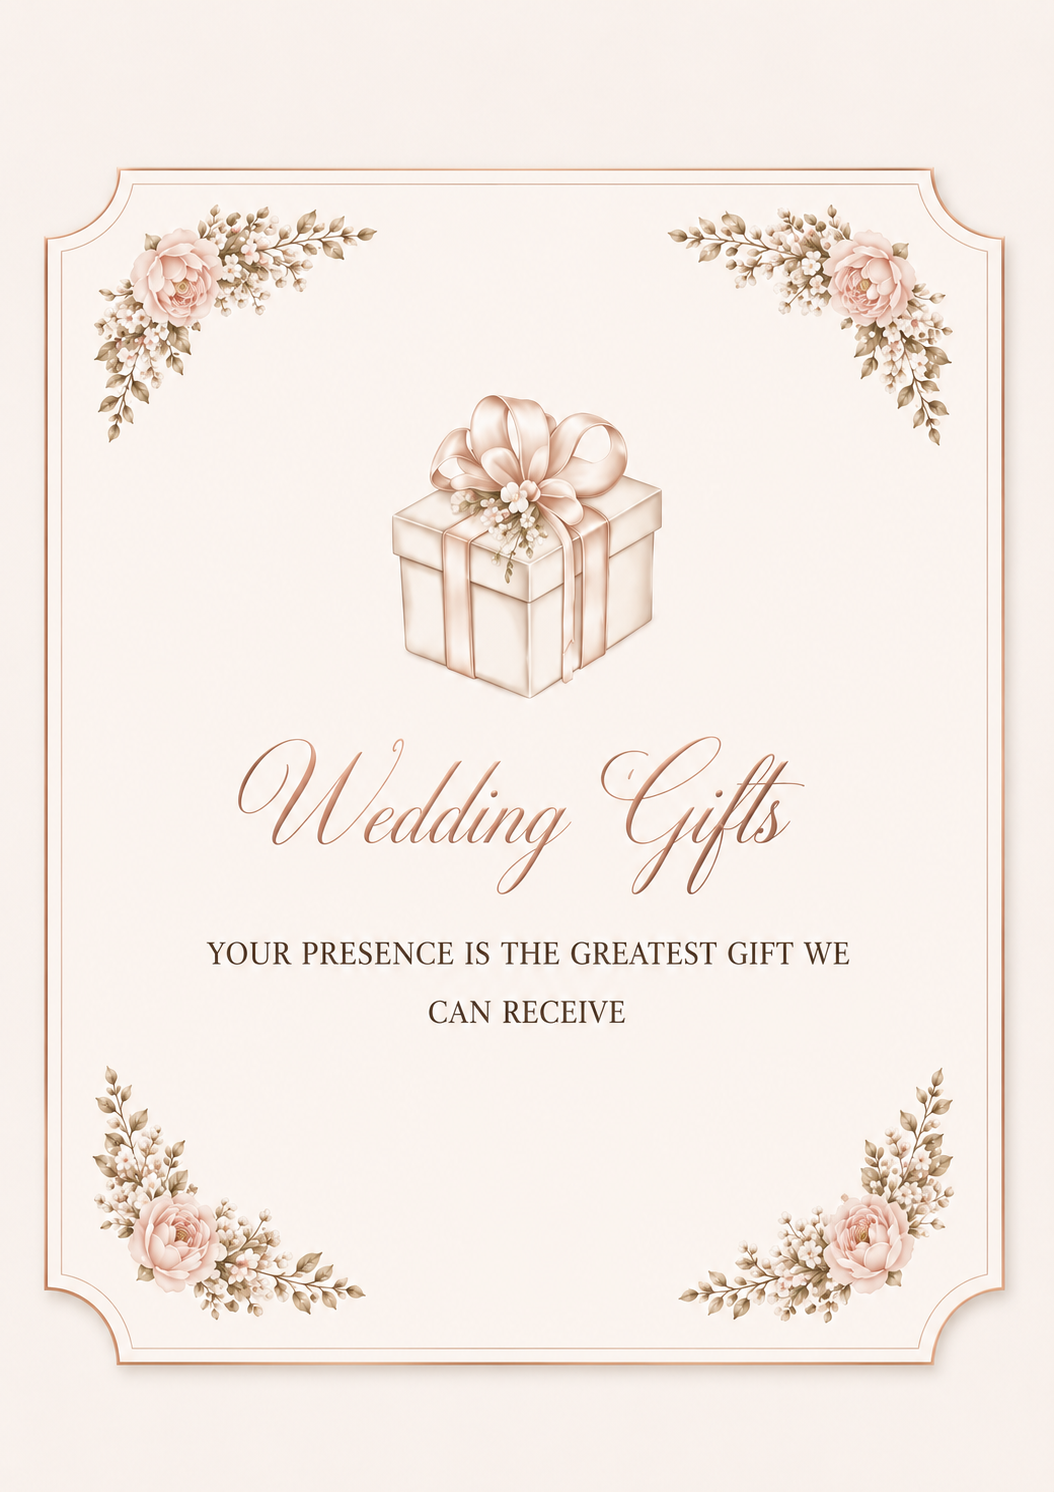
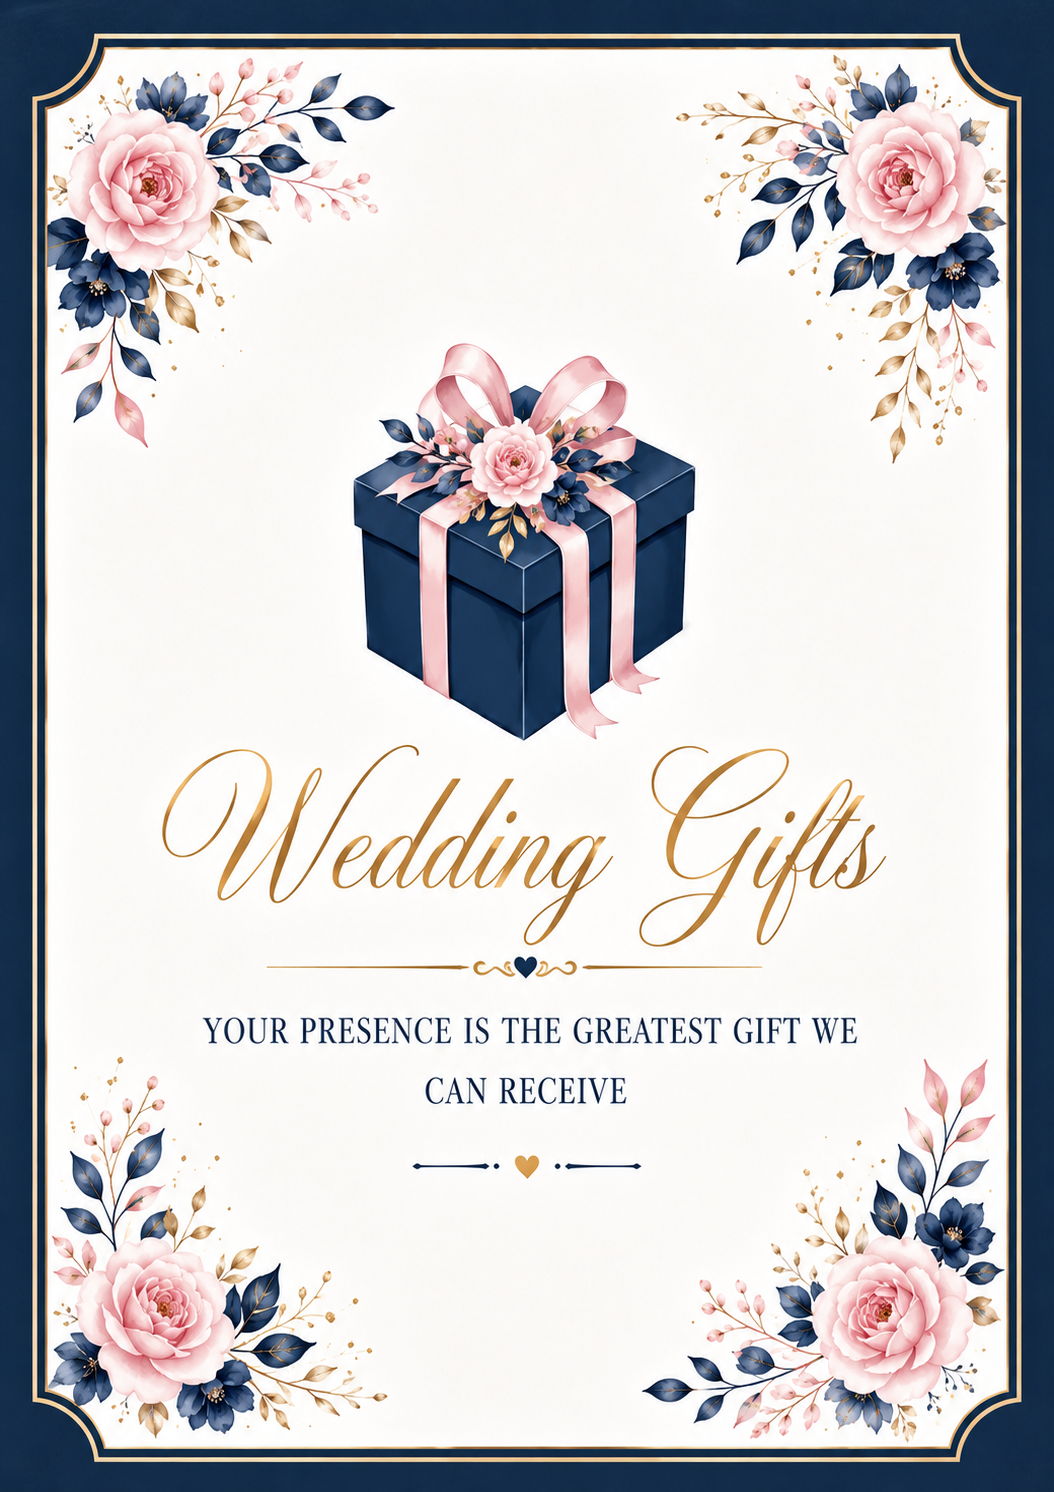
update

diff --git a/script.js b/script.js
@@ -93,6 +93,17 @@ const timelineDots = document.querySelectorAll('.timeline-dot');
 const timelineRows = document.querySelectorAll('.timeline-row');
 
 const wasReached = new Array(timelineDots.length).fill(false);
+let dotOffsets = [];
+
+function measureDotOffsets() {
+  if (!timelineTrack) return;
+  const trackRect = timelineTrack.getBoundingClientRect();
+  const trackTop = trackRect.top + window.scrollY;
+  dotOffsets = Array.from(timelineDots).map((dot) => {
+    const dotRect = dot.getBoundingClientRect();
+    return dotRect.top + window.scrollY + dotRect.height / 2 - trackTop;
+  });
+}
 
 function updateTimelineFill() {
   if (!timelineTrack || !timelineFill) return;
@@ -110,9 +121,7 @@ function updateTimelineFill() {
   const reachedStates = [];
 
   timelineDots.forEach((dot, i) => {
-    const dotRect = dot.getBoundingClientRect();
-    const dotOffset = dotRect.top + dotRect.height / 2 - rect.top;
-    const reached = fillPx >= dotOffset;
+    const reached = fillPx >= (dotOffsets[i] ?? 0);
     reachedStates.push(reached);
     if (reached) lastReachedIndex = i;
 
@@ -139,7 +148,9 @@ function updateTimelineFill() {
   });
 }
 
-function onScroll() {
+let scrollTicking = false;
+
+function handleScrollWork() {
   if (scrollProgress) {
     const scrollTop = window.scrollY;
     const docHeight = document.documentElement.scrollHeight - window.innerHeight;
@@ -148,10 +159,32 @@ function onScroll() {
   }
 
   updateTimelineFill();
+  scrollTicking = false;
+}
+
+function onScroll() {
+  if (scrollTicking) return;
+  scrollTicking = true;
+  requestAnimationFrame(handleScrollWork);
 }
 
 window.addEventListener('scroll', onScroll, { passive: true });
-onScroll();
+
+let resizeTimer;
+window.addEventListener(
+  'resize',
+  () => {
+    clearTimeout(resizeTimer);
+    resizeTimer = setTimeout(() => {
+      measureDotOffsets();
+      handleScrollWork();
+    }, 150);
+  },
+  { passive: true }
+);
+
+measureDotOffsets();
+handleScrollWork();
 
 timelineDots.forEach((dot) => {
   dot.addEventListener('animationend', (event) => {

diff --git a/index.html b/index.html
@@ -25,9 +25,10 @@
           id="heroVideo"
           class="hero-video"
           src="Assests/opening.mp4"
+          poster="Assests/opening-poster.jpg"
           muted
           playsinline
-          preload="auto"
+          preload="metadata"
         ></video>
         <div class="petals" aria-hidden="true">
           <span></span><span></span><span></span><span></span><span></span><span></span>
